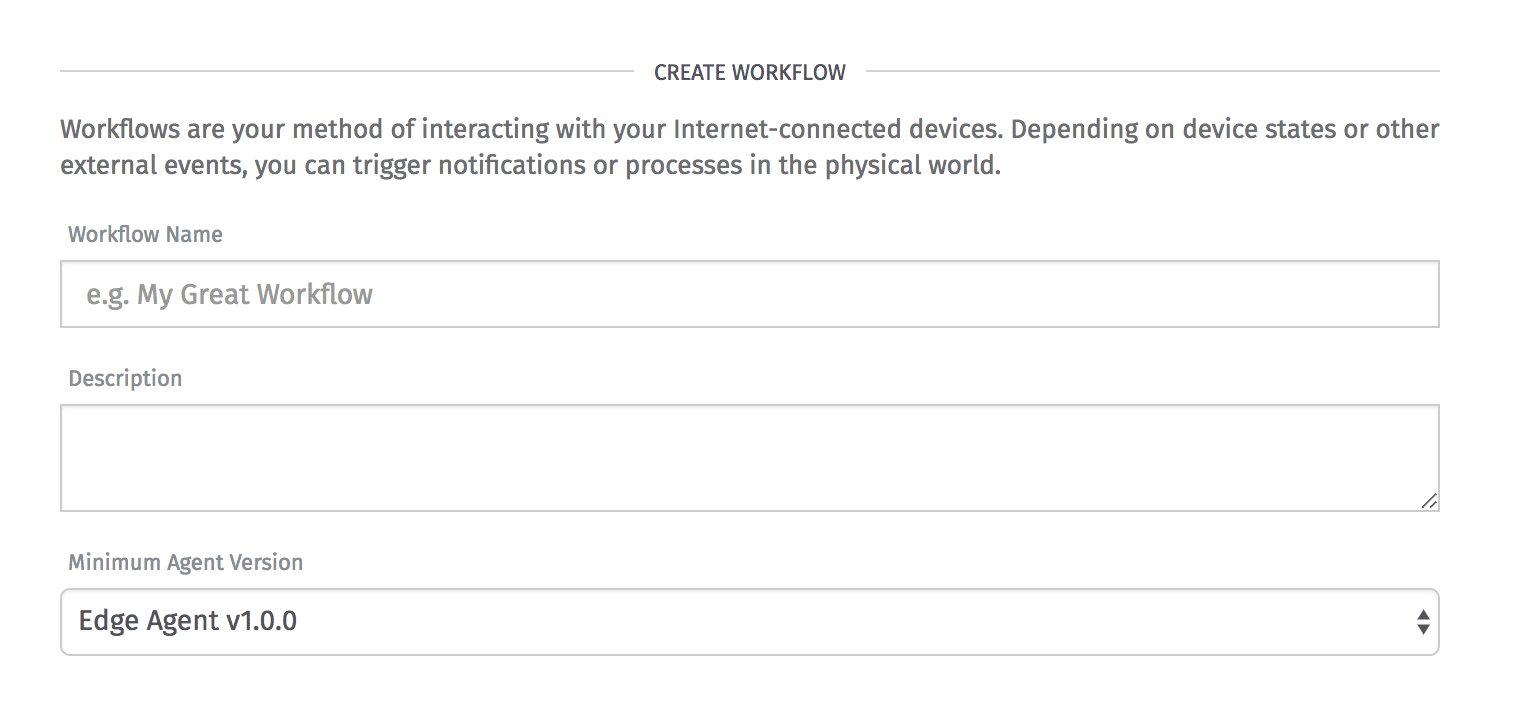
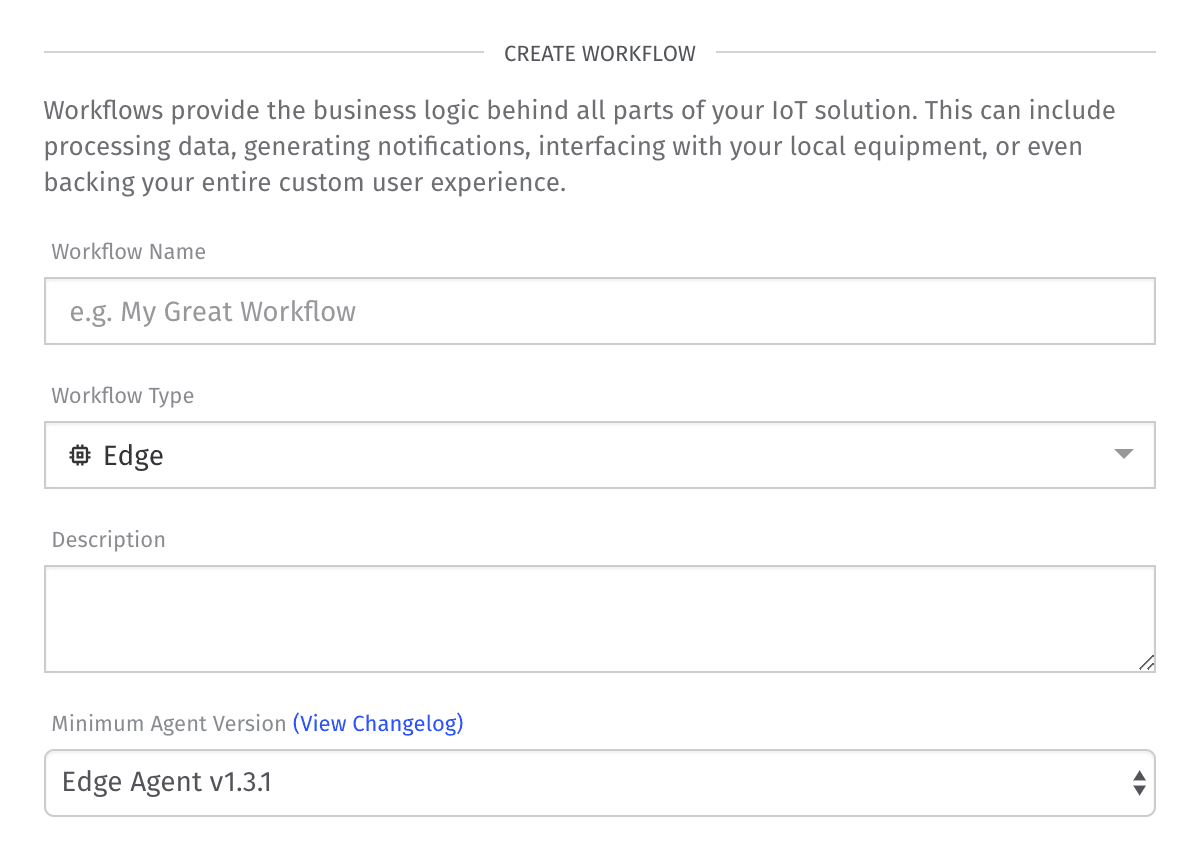
experience versions page

diff --git a/docs/experiences/versions.md b/docs/experiences/versions.md
@@ -1,0 +1,101 @@
+description: Learn more about creating and using experience versions in the Losant platform.
+
+# Experience Versions
+
+Experience versions are frozen snapshots of a [portion of your application experience resources](#versioned-resources) that can be published to an experience domain or slug.
+
+## Viewing Experience Versions
+
+To view a list of your experience versions, click the "Versions" link within the "Experience" dropdown menu in your application navigation.
+
+![Experience Versions List](/images/experiences/experience-versions-list.png "Experience Versions List")
+
+There will always be at least one version in the list: your "develop" version, which is the only editable experience version. All other versions in the list are frozen and cannot be directly edited.
+
+The list of experience versions also indicates which domains and slugs (if any) are pointed at each version.
+
+### Viewing Version Contents
+
+To view the resources within an experience version, simply click the name of the version in the list. This will take you to an interface where you can browse the views, workflows and endpoints that make up the version.
+
+![Experience Version Details](/images/experiences/experience-version-details.png "Experience Version Details")
+
+If you are viewing any version besides "develop", none of the resources will be editable. You will need to [copy the version to "develop"](#editing-experience-versions) if you wish to make any edits.
+
+## Creating an Experience Version
+
+To create a new experience version, click the "Create Version ..." button atop the versions list.
+
+![Create Experience Version Button](/images/experiences/create-experience-version-button.png "Create Experience Version Button")
+
+This will open a configuration modal with the following options:
+
+*   **Version Name**, a required field which must be unique within your application. By default the new version name is the current date and time but this can be changed to anything you'd like; for example, many Losant users follow the [semantic versioning specification](https://semver.org/).
+*   **Notes**, an optional field where you can put any information about the new version, such as significant changes or bug fixes.
+*   **Domains and Slugs** that should be pointed to the new version. This is also optional and can be changed at a later date within the domain / slug edit pages. Any changes made here will take effect immediately upon version creation.
+
+![Create Experience Version Modal](/images/experiences/create-experience-version-modal.png "Create Experience Version Modal")
+
+When ready, click the "Create Version" button at the bottom of the modal, and all experience views, workflows and endpoints within your "develop" version will be frozen as part of your new experience version. Within the "develop" version, those resources will remain unchanged and you can continue to edit them as before.
+
+## Pointing Domains at Versions
+
+At any time, you may change which of your experience versions the requests to your experience domains or slugs resolves to. From the lists of domains and slugs, select the item you wish to edit, and on the next screen, choose the version you wish to use from the dropdown menu. The change takes effect immediately on save.
+
+![Experience Domain Change Version](/images/experiences/experience-domain-change-version.png "Experience Domain Change Version")
+
+You may also clear the version from the domain without assigning a new one; doing so means all requests to the domain will fail until a version is reassigned to it.
+
+## Editing Experience Versions
+
+The resources within an experience version **cannot be directly edited**; the views, workflows and endpoints are frozen as part of the version. However, much like with workflow versions, you can copy one of your published versions to your "develop" version and make edits there.
+
+To do so, click the "Copy to develop" link next to the chosen version within the versions list.
+
+![Copy Version to Develop Button](/images/experiences/copy-version-to-develop-button.png "Copy Version to Develop Button")
+
+This will bring up a modal asking you to confirm the change, as doing so will completely overwrite your existing "develop" version. You will also have the option of automatically saving the current "develop" version as a new version so the resources are not lost forever. The new version will be given the name "develop-backup-{CURRENT_DATETIME}".
+
+![Copy Version to Develop Modal](/images/experiences/copy-version-to-develop-modal.png "Copy Version to Develop Modal")
+
+At this point, the resources within the version can be modified or deleted, and new resources can be added. When you are finished making changes, you can save "develop" as a new version and, optionally, point one or more of your domains to the new version. 
+
+## Benefits
+
+It is possible to build out a full application experience without using the experience versioning feature, but we strongly recommend doing so for the following reasons:
+
+*   Creating versions allows for updating an experience after initial publication without disrupting your end users, as you can make changes within the 'develop' version (which can be pointed at a staging domain) and only publish the changes to your production domain once the edits are complete.
+*   Experience versioning makes it much easier to host two or more disparate end user experiences that are backed by the same Losant application data, as different domains can be pointed at different published versions.
+*   Creating experience versions provides a means for revision history as the entire experience can be saved as a new version at any time. You may then look back at any past version or even copy the resources to the 'develop' version for further editing.
+
+## Versioned Resources
+
+The following resources are frozen as part of an experience version:
+
+*   [Experience views](/experiences/views/) of all types
+*   [Experience workflows](/workflows/experience-workflows/)
+*   [Experience endpoints](/experiences/endpoints/)
+
+These resources will continue to exist within the application version even if their counterparts are deleted within the 'develop' version.
+
+##  Unversioned Resources
+
+Special care should be taken regarding the following resources when building out an experience version:
+
+*   [Experience users](/experiences/users/) exist outside of the versioning architecture, as do [experience groups](/experiences/groups/) - specifically, which users are a member of a group.
+*   [Application global variables](/applications/overview/#application-globals), which can be referenced in experience workflows, are unaffected by experience versions. Changing an application global value will affect any experience workflow referencing the value.
+*   [Workflow storage](/workflows/overview/#workflow-storage) spans across all workflow versions, including across experience workflow versions.
+*   [Cloud workflows](/workflows/cloud-workflows/) that employ [Endpoint Trigger](/workflows/triggers/endpoint/) and [Endpoint Reply](/workflows/outputs/endpoint-reply/) Nodes are not versioned as part of the experience. We recommend migrating any cloud workflows whose sole purpose is to handle endpoint requests to a new experience workflow so they get versioned along with the rest of the experience.
+
+## Deleting Experience Versions
+
+Experience versions other than "develop" can be deleted one of two ways:
+
+![Delete Experience Version Button](/images/experiences/delete-experience-version-button.png "Delete Experience Version Button")
+
+*   Individually, by clicking the "Delete" icon next to any version you wish to delete within the versions list
+*   In bulk, under the "Settings" > "Delete Resources" tab in your application's navigation by selecting "Delete Experience Versions" and submitting the form
+
+![Bulk Delete Experience Versions](/images/experiences/bulk-delete-experience-versions.png "Bulk Delete Experience Versions")
+
+Once an experience version is deleted, any requests made to a domain that was pointed to that version will fail until that domain is pointed to a different experience version.

diff --git a/docs/workflows/overview.md b/docs/workflows/overview.md
@@ -4,25 +4,23 @@ description: Learn more about Losant workflows: how they work and how to configu
 
 Workflows are the primary way for your devices to communicate with each other and other services. Workflows allow you to (for example) [trigger email notifications](/workflows/outputs/email/), [create events](/workflows/outputs/record-event/), [send device commands](/workflows/outputs/device-command/) and more. Workflows are, in essence, the brains of your connected solution.
 
-A list of your application's workflows, broken down by [type](#workflow-types), can be accessed through your application's subnavigation.
+A list of your application's workflows, broken down by [type](#types-of-workflows), can be accessed through your application's subnavigation.
 
 ![Workflows List](/images/workflows/workflows-list.png "Workflows List")
 
-## Creating a Workflow
+## Types of Workflows
 
-Workflows can be created by clicking the "Add Workflow" link in the "Workflows" dropdown within your application's subnavigation. They may also be created by clicking the "Add" button within your workflow lists both on the "Workflows" page and on the application overview.
-
-![Create Workflow](/images/workflows/workflow-create-buttons.png "Create Workflow")
-
-When creating a new workflow, you must first choose a workflow type. This cannot be changed after workflow creation. There are currently two different workflow types:
+There are three types of workflows, each of which features unique functionality and is best suited for specific use cases:
 
 * [**Cloud workflows**](/workflows/cloud-workflows/) execute within Losant's cloud platform. While they are generally more robust, they do depend on your devices having a strong, stable internet connection for near-immediate execution.
 * [**Experience workflows**](/workflows/experience-workflows/) are best suited for handling requests and issuing responses within your [application experience](/experiences/overview/). They are versioned along with your experience's [endpoints](/experiences/endpoints/) and [views](/experiences/views/).
 * [**Edge workflows**](/workflows/edge-workflows/) are configured in the cloud platform, but are then deployed to your [edge compute devices](/devices/edge-compute/) where their execution happens. The primary benefit of these workflows is that they do not need an internet connection to run, and they can interact with their host devices in real time and report up to the internet at a later time.
 
-![Choose Workflow Type](/images/workflows/workflow-create-choose-type.png "Choose Workflow Type")
+## Creating a Workflow
 
-More information on each workflow type, and what sets them apart, is available within each type's documentation.
+Workflows can be created by clicking the "Add Workflow" link in the "Workflows" dropdown within your application's subnavigation. They may also be created by clicking the "Add" button within your workflow lists both on the "Workflows" page and on the application overview.
+
+When creating a new workflow, you must choose one of the workflow types outlined above. The type cannot be changed after workflow creation.
 
 After choosing a type, you must then give your workflow a name and optionally a description. If you are creating an edge workflow, you must also choose the minimum [Edge Agent](/edge-compute/edge-agent-changelog/) to target with your workflow. This can be upgraded (but not downgraded) at a later time.
 

diff --git a/docs/workflows/experience-workflows.md b/docs/workflows/experience-workflows.md
@@ -18,9 +18,11 @@ The primary limitation of experience workflows is they lack some of the more rob
 
 Generally speaking, experience workflows and cloud workflows are functionally similar, but there are a few differences.
 
+![Experience Workflow Triggers](/images/workflows/experience-workflow-triggers.png "Experience Workflow Triggers")
+
 ### Triggers
 
-The only triggers available in an experience workflow are the [Endpoint Reply Trigger](/workflows/triggers/endpoint/) and the [Virtual Button](/workflows/triggers/virtual-button/). The Endpoint Reply Trigger will only fire on requests made to domains or slugs pointed at the workflow's expeirence version. All other workflow nodes are available.
+The only triggers available in an experience workflow are the [Endpoint Trigger](/workflows/triggers/endpoint/) and the [Virtual Button](/workflows/triggers/virtual-button/). The Endpoint Trigger will only fire on requests made to domains or slugs pointed at the workflow's expeirence version. All other workflow nodes are available.
 
 ### Debugging
 
@@ -37,6 +39,8 @@ Much like cloud workflows, only the "develop" version of an experience workflow 
 ## Deleting Experience Workflows
 
 To delete an experience workflow, click the "Delete Flow" button at the bottom of the workflow's Properties panel while viewing the "develop" version. They can also be deleted by clicking the "Delete" icon in a list of your experience's "develop" workflows.
+
+![Delete Workflow](/images/workflows/workflow-delete.png "Delete Workflow")
 
 Only the "develop" version of an experience workflow can be deleted; to delete a version, it is necessary to delete the entire experience version.
 
